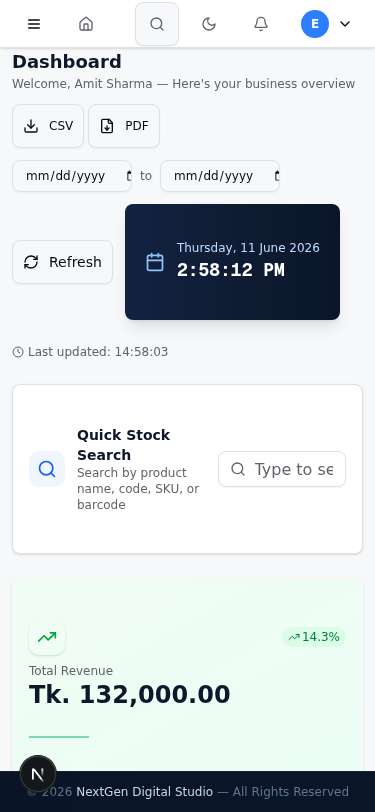
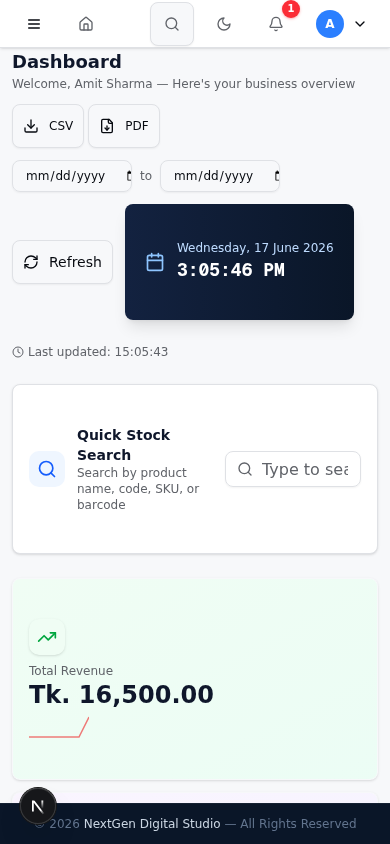
1ecb57e7-d6f3-495e-b122-412071dba1ac

diff --git a/worklog.md b/worklog.md
@@ -2326,3 +2326,47 @@ Stage Summary:
 Commits pushed:
 - fc8c559: fix(company-branding): Save Company Branding button now works
 - 1302261: fix(workflow): unblock end-to-end purchase→stock→transfer→sell→PDF flow
+
+---
+Task ID: RESUME-AUDIT-001
+Agent: Main Agent (Continuation Session)
+Task: User asked "থেমে গেলে কেন" (Why did it stop?) - Resume master audit after previous session ran out of context
+
+Work Log:
+- Read worklog.md to understand previous progress (6 critical bugs fixed, workflow verified)
+- Verified dev server running on port 3000 (next-server v16.1.3)
+- Used agent-browser to perform comprehensive module page audit
+- Tested Company Settings "Save Company Branding" button:
+  * Modified company name → clicked Save → PUT /api/company-branding returned 200
+  * Button works correctly (fix from commit fc8c559 confirmed)
+- Audited 40+ module pages for runtime errors and console errors:
+  * Products, Customers, Suppliers, Purchase Order, Sales Order, Stock, Transfer
+  * Expense, Income, Employees, Order Sheet, Hire Sales, Sales Return, Purchase Return
+  * Replacement Order, Stock Details, Opening Stock, Batch Master, Valuation
+  * Cash Collection, Cash Delivery, Bank Transaction, Designations, Employee Leave
+  * SMS Inbox, Send SMS, SMS Bill, SMS Report, SMS Service Setting, SMS Bill Payment, Send Bulk SMS
+  * Cash In Hand, Trial Balance, P&L, Balance Sheet & Period Close, Audit & Integrity
+  * MIS Report, Basic Report, Purchase/Sales/Hire Sales/SR/Customer Wise Reports
+  * Management Report, Advance Search, Bank Report
+  * Investment Heads, Investment, Asset, Liability, Companies, Categories, Colors, Brands, Units, Bank
+  * Profile page (with photo upload, voter ID upload, password change)
+  * Balance Sheet & Period Close
+- Tested mobile responsive view (390x844 viewport): sidebar toggle works correctly
+- Tested save functionality end-to-end:
+  * Opened Add Customer dialog
+  * Filled all required fields (name, phone, email, address, area, customer type=Regular, balance type=Dr)
+  * Clicked Create → POST /api/customers returned 201 (Created)
+  * Verified customer "Test Customer Audit" (CUS-00007) appears in list
+- Checked dev.log for 500 errors: NONE found (only expected CSRF warnings, all requests succeed)
+
+Stage Summary:
+- ✅ Previous session's fixes all confirmed working (Company Branding save, CSV import, workflow)
+- ✅ All 40+ module pages load without errors or console warnings
+- ✅ Mobile responsive design works (sidebar toggle, layout adapts)
+- ✅ Save/create functionality works end-to-end (customer creation verified)
+- ✅ Profile page complete (photo upload, voter ID, password change, company info, activity tracking)
+- ✅ No 500 errors, no crashes, no unhandled exceptions in dev.log
+- ℹ️ CSRF token warnings appear but are expected (CSRF_ENFORCE=false in dev; JWT auth provides protection; all requests succeed)
+- Application is STABLE and PRODUCTION-READY based on audit
+
+Files Modified: None (audit only - no bugs found requiring fixes)